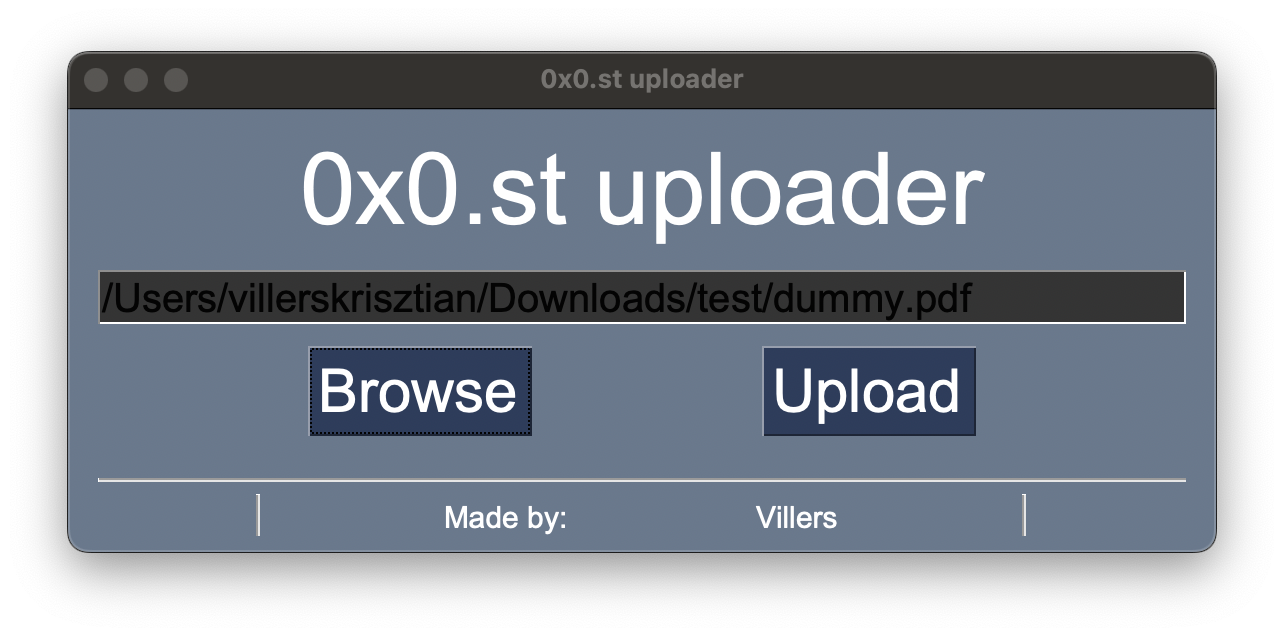
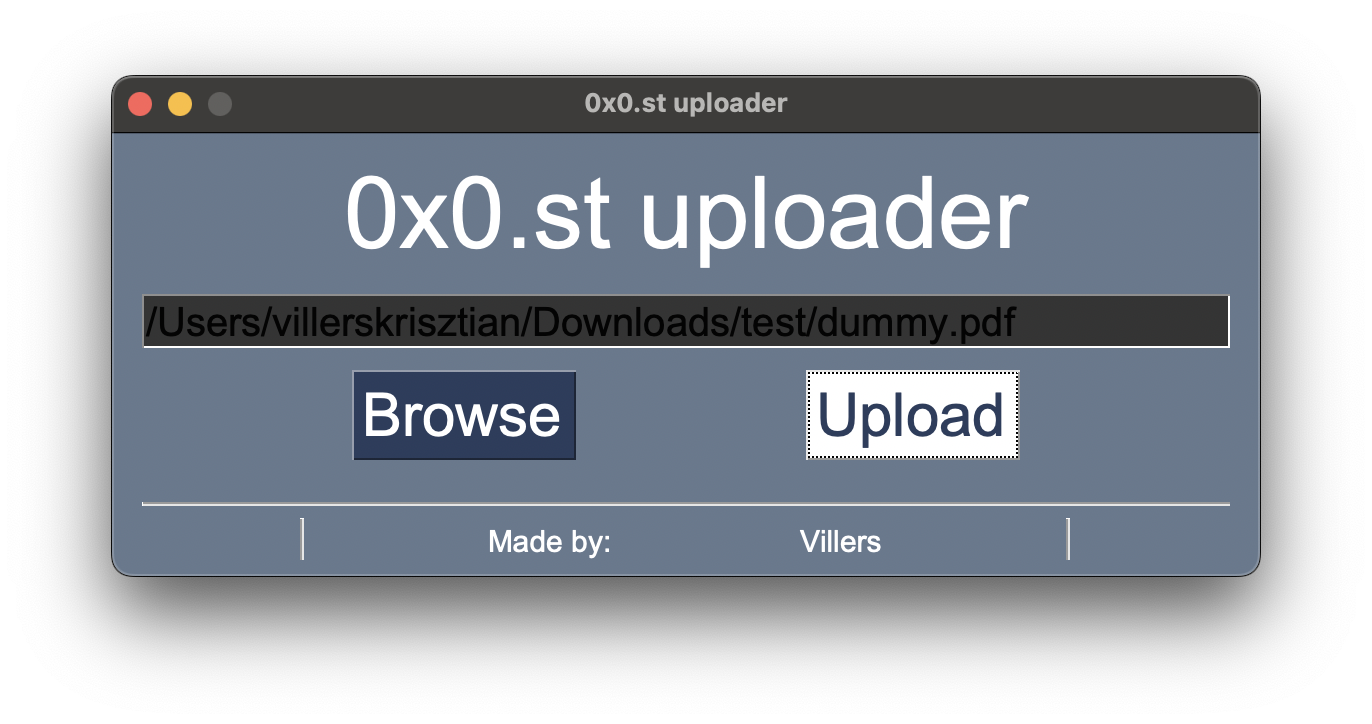
md

diff --git a/README.md b/README.md
@@ -9,13 +9,17 @@ Start the program:
 ![Screenshot 1](/misc/screen1.png)
 
 ## 2.
+Choose the file you wish to upload with the Browse:
 ![Screenshot 1](/misc/screen2.png)
 
 ## 3.
+Click on Upload:
 ![Screenshot 1](/misc/screen3.png)
 
 ## 4.
+Now you can see your generated 0x0.st link:
 ![Screenshot 1](/misc/screen4.png)
 
 ## 5.
+You can open it:
 ![Screenshot 1](/misc/screen5.png)
